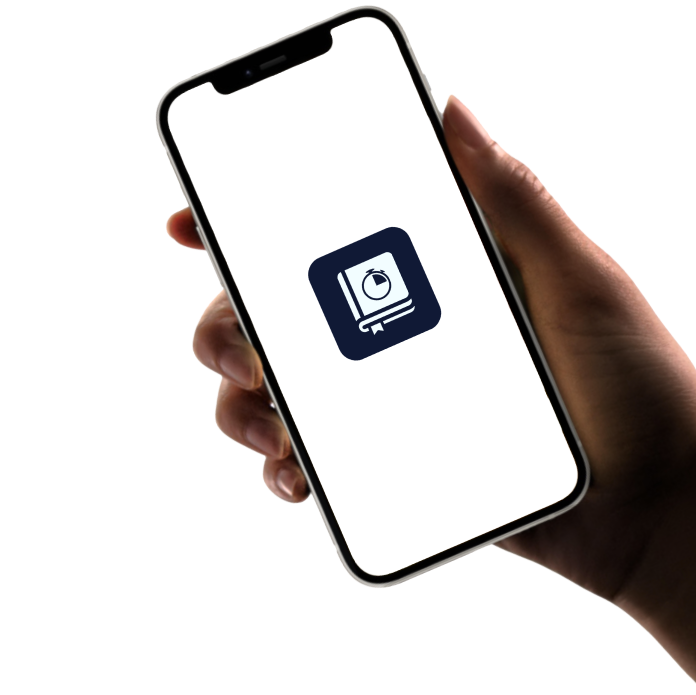
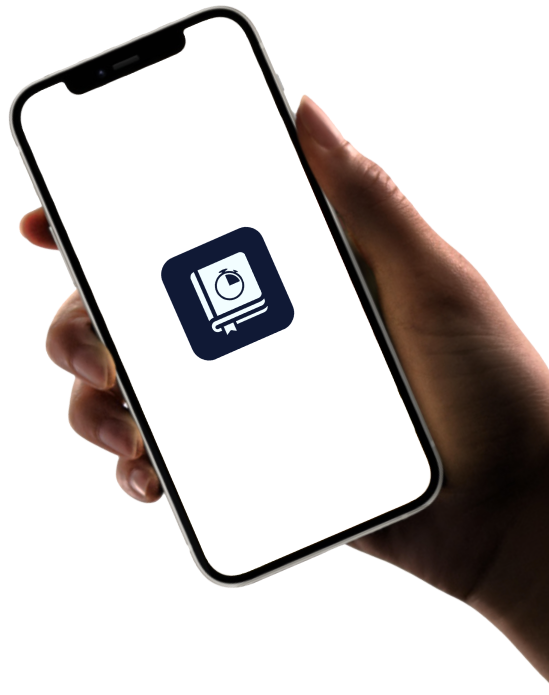
:lipstick: App section responsive

Changed region(s): [[0.0, 0.0, 0.9909, 0.9669]]

diff --git a/src/pages/landing-page/components/AppSection.tsx b/src/pages/landing-page/components/AppSection.tsx
@@ -19,7 +19,7 @@ const AppSection = () => {
                         irá ajudar-te a não te desleixares com a leitura.
                     </p>
                 </article>
-                <article className="app-section-article">
+                <article className="app-section-article right">
                     <img
                         src={AppDemo}
                         className="app-section-img"
@@ -29,8 +29,10 @@ const AppSection = () => {
                 </article>
             </section>
             <footer className="app-section-footer">
-                <p className="app-section-p">
-                    🇵🇹 Uma App totalmente <b>Portuguesa</b> 🇵🇹
+                <p className="app-section-p flag">
+                    🇵🇹 Uma App <br className="br" />
+                    totalmente
+                    <b> Portuguesa</b> 🇵🇹
                 </p>
             </footer>
         </Styles>

diff --git a/src/pages/landing-page/components/AppSection.styled.ts b/src/pages/landing-page/components/AppSection.styled.ts
@@ -26,8 +26,49 @@ const styles = styled.section`
         padding-left: 25px;
     }
 
+    .right {
+        text-align: right;
+    }
+
     .app-section-p {
         font-size: 20px;
+    }
+
+    .flag {
+        text-align: center;
+    }
+
+    .br {
+        display: none;
+    }
+
+    @media (max-width: 600px) {
+        text-align: center;
+
+        .app-section-padding {
+            flex-direction: column;
+        }
+
+        .app-section-article {
+            width: 90%;
+        }
+
+        .app-section-p {
+            text-align: center;
+            font-size: 17px;
+        }
+
+        .app-section-img {
+            height: 400px;
+        }
+
+        .app-section-footer {
+            width: 85%;
+        }
+
+        .br {
+            display: block;
+        }
     }
 `;
 

diff --git a/src/index.css b/src/index.css
@@ -45,6 +45,10 @@ span {
 }
 
 @media only screen and (max-width: 600px) {
+    h2 {
+        font-size: 25px;
+    }
+
     p {
         font-size: 17px;
     }
